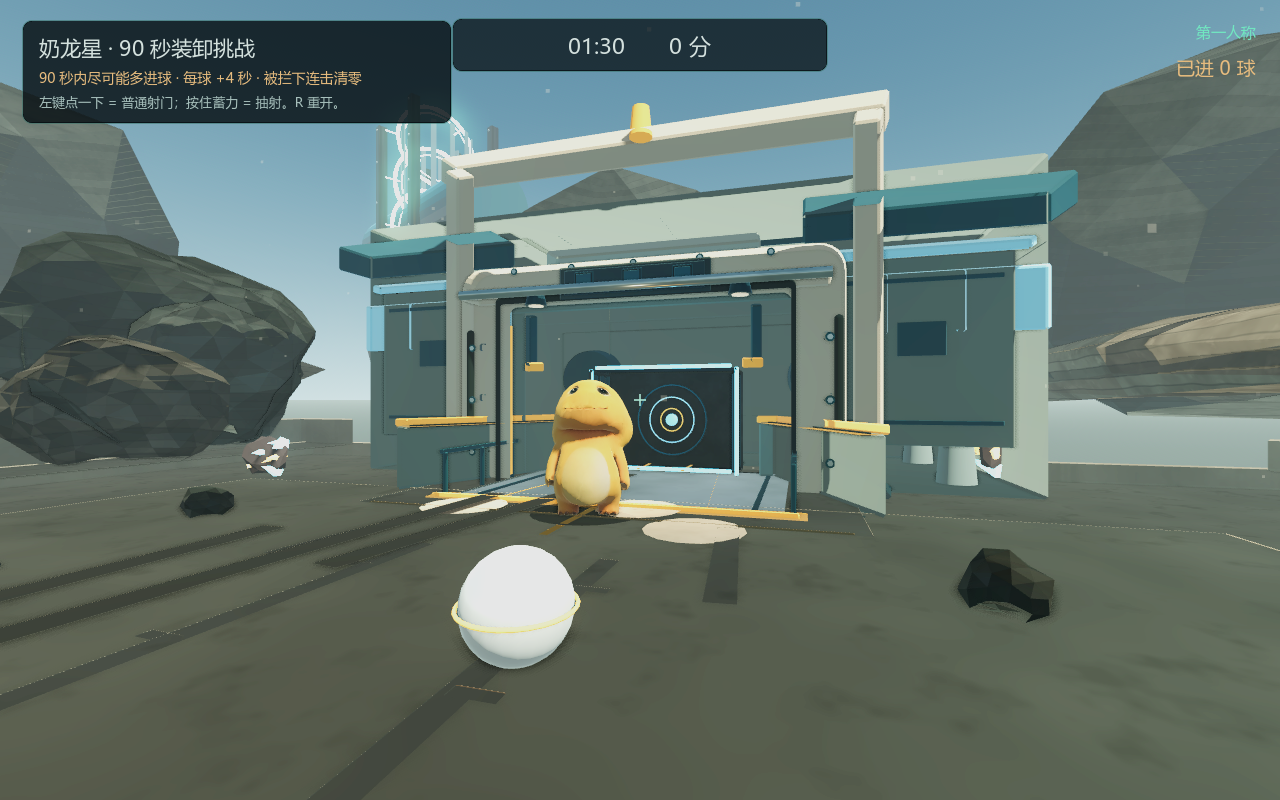
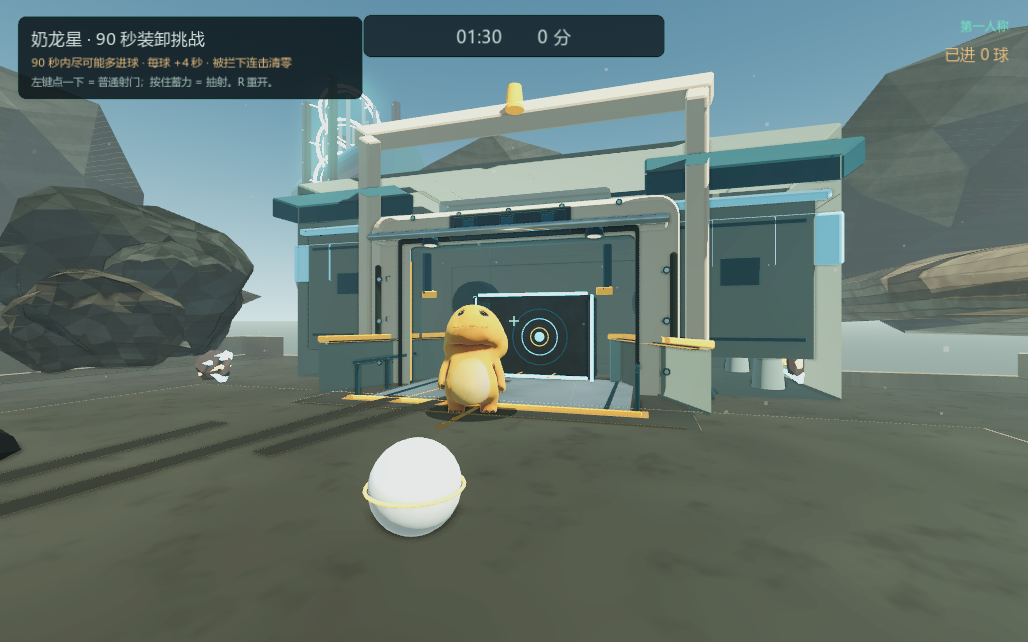
feat(gulu): keeper reads player's side, commits to a dive and whiffs on a late switch
- anticipation: 0.40s tell from player-ball-goal geometry only (no input reading), 0.42m lean + body lean

- commit: dives to the anticipated side when it contradicts the actual ball path, cannot reverse

- personality: whiff looks at ball then player; save stays smug, blends into return

- wind off by default (--wind), pitch cap 1.35, goal audio priority, ground clutter reverted

- tests: dragon 5/0, wind-goal 6/0, plus 45/0 21/0 7/0 5/0; 350.6 FPS

diff --git a/game/previews/gulu_planet/HANDOFF.md b/game/previews/gulu_planet/HANDOFF.md
@@ -3,9 +3,21 @@
 > 多日任务续点。新会话先读本文件，再读 `STATUS.md` / `TESTING.md` / `BRIEF.md`。
 > 每次推进后更新「当前状态 / 下一步 / 恢复命令」，不要只依赖聊天记录。
 
-最后更新：2026-11-23（第五轮：标题屏 / 开场 / 结算 / 浮字 / 尘埃）
+最后更新：2026-11-23（第六轮：奶龙读站位/假动作/性格；侧风默认关）
 
-## 2026-11-23 · 第五轮：表现层（当前）
+## 2026-11-23 · 第六轮：奶龙“像在跟你玩”（当前）
+
+- **读站位**：玩家在球 2.9 m 内且处在“球→门”方向时，奶龙读
+  `sign(玩家z-球z)`；站定 0.40 s 才锁定，换边清零；锁定后站位偏 0.42 m + 重心/侧倾。
+- **会犯错**：来球方向与预判相反时按预判侧扑 → 扑空；扑出后目标锁死，不能瞬间反向。
+  先骗到一侧、再绕另一边射门就能得分（`--dragon-test` 验证）。
+- **性格**：扑空先看球 0.35 s 再看玩家 0.6 s；扑住短促挺胸，不阻塞回防。
+- **侧风默认关**：只有 `--wind` 才开；新增 `--wind-goal` 完整周期 6/0。
+- **声音**：音高上限 1.35；进球后 0.38 s 内不叠倒计时/风声。
+- **地面杂物收回**：车辙/刹车痕/油斑全删，只留 6 块边线碎石。
+- 自测：45/0、21/0、7/0、6/0、5/0、dragon 5/0；性能 350.6 FPS / 1172 DC。
+
+## 2026-11-23 · 第五轮：表现层
 
 - 新增 `scripts/gulu_presentation.gd`：标题屏、3-2-1 开场倒计时、进球浮字与闪屏、
   结算面板（分数/进球/最佳连击/最高分/新纪录）、极轻暗角；
